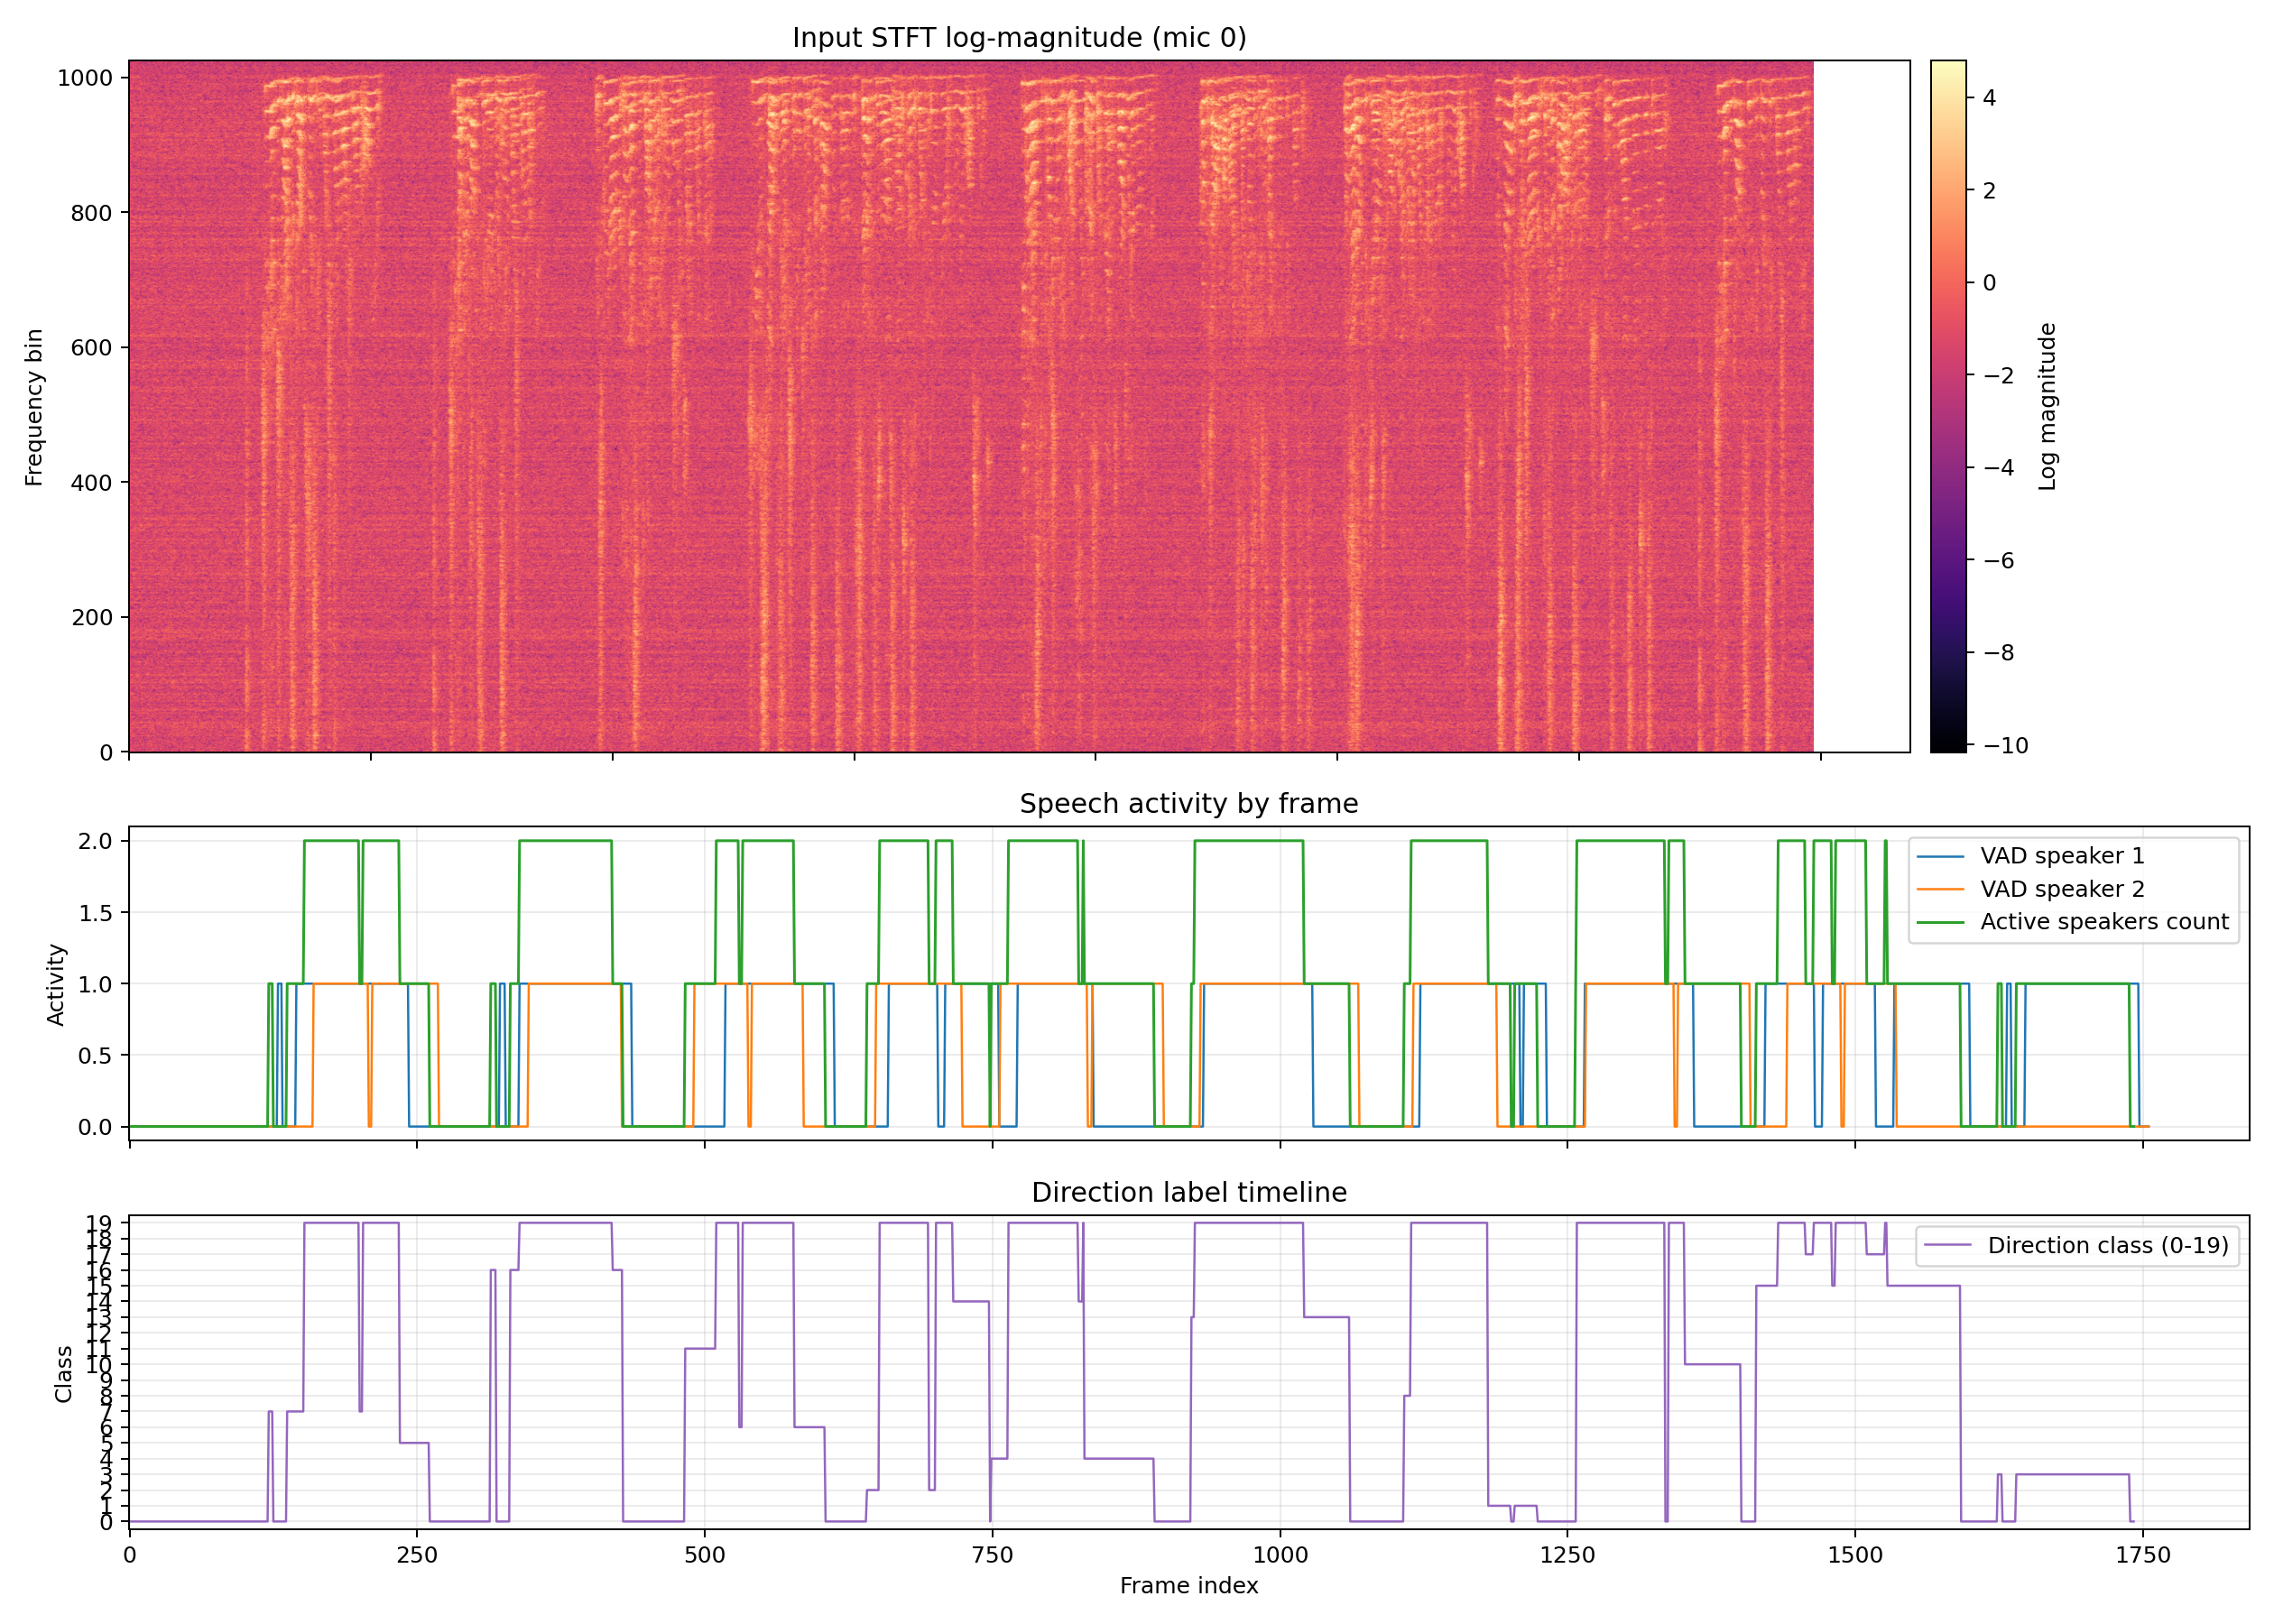
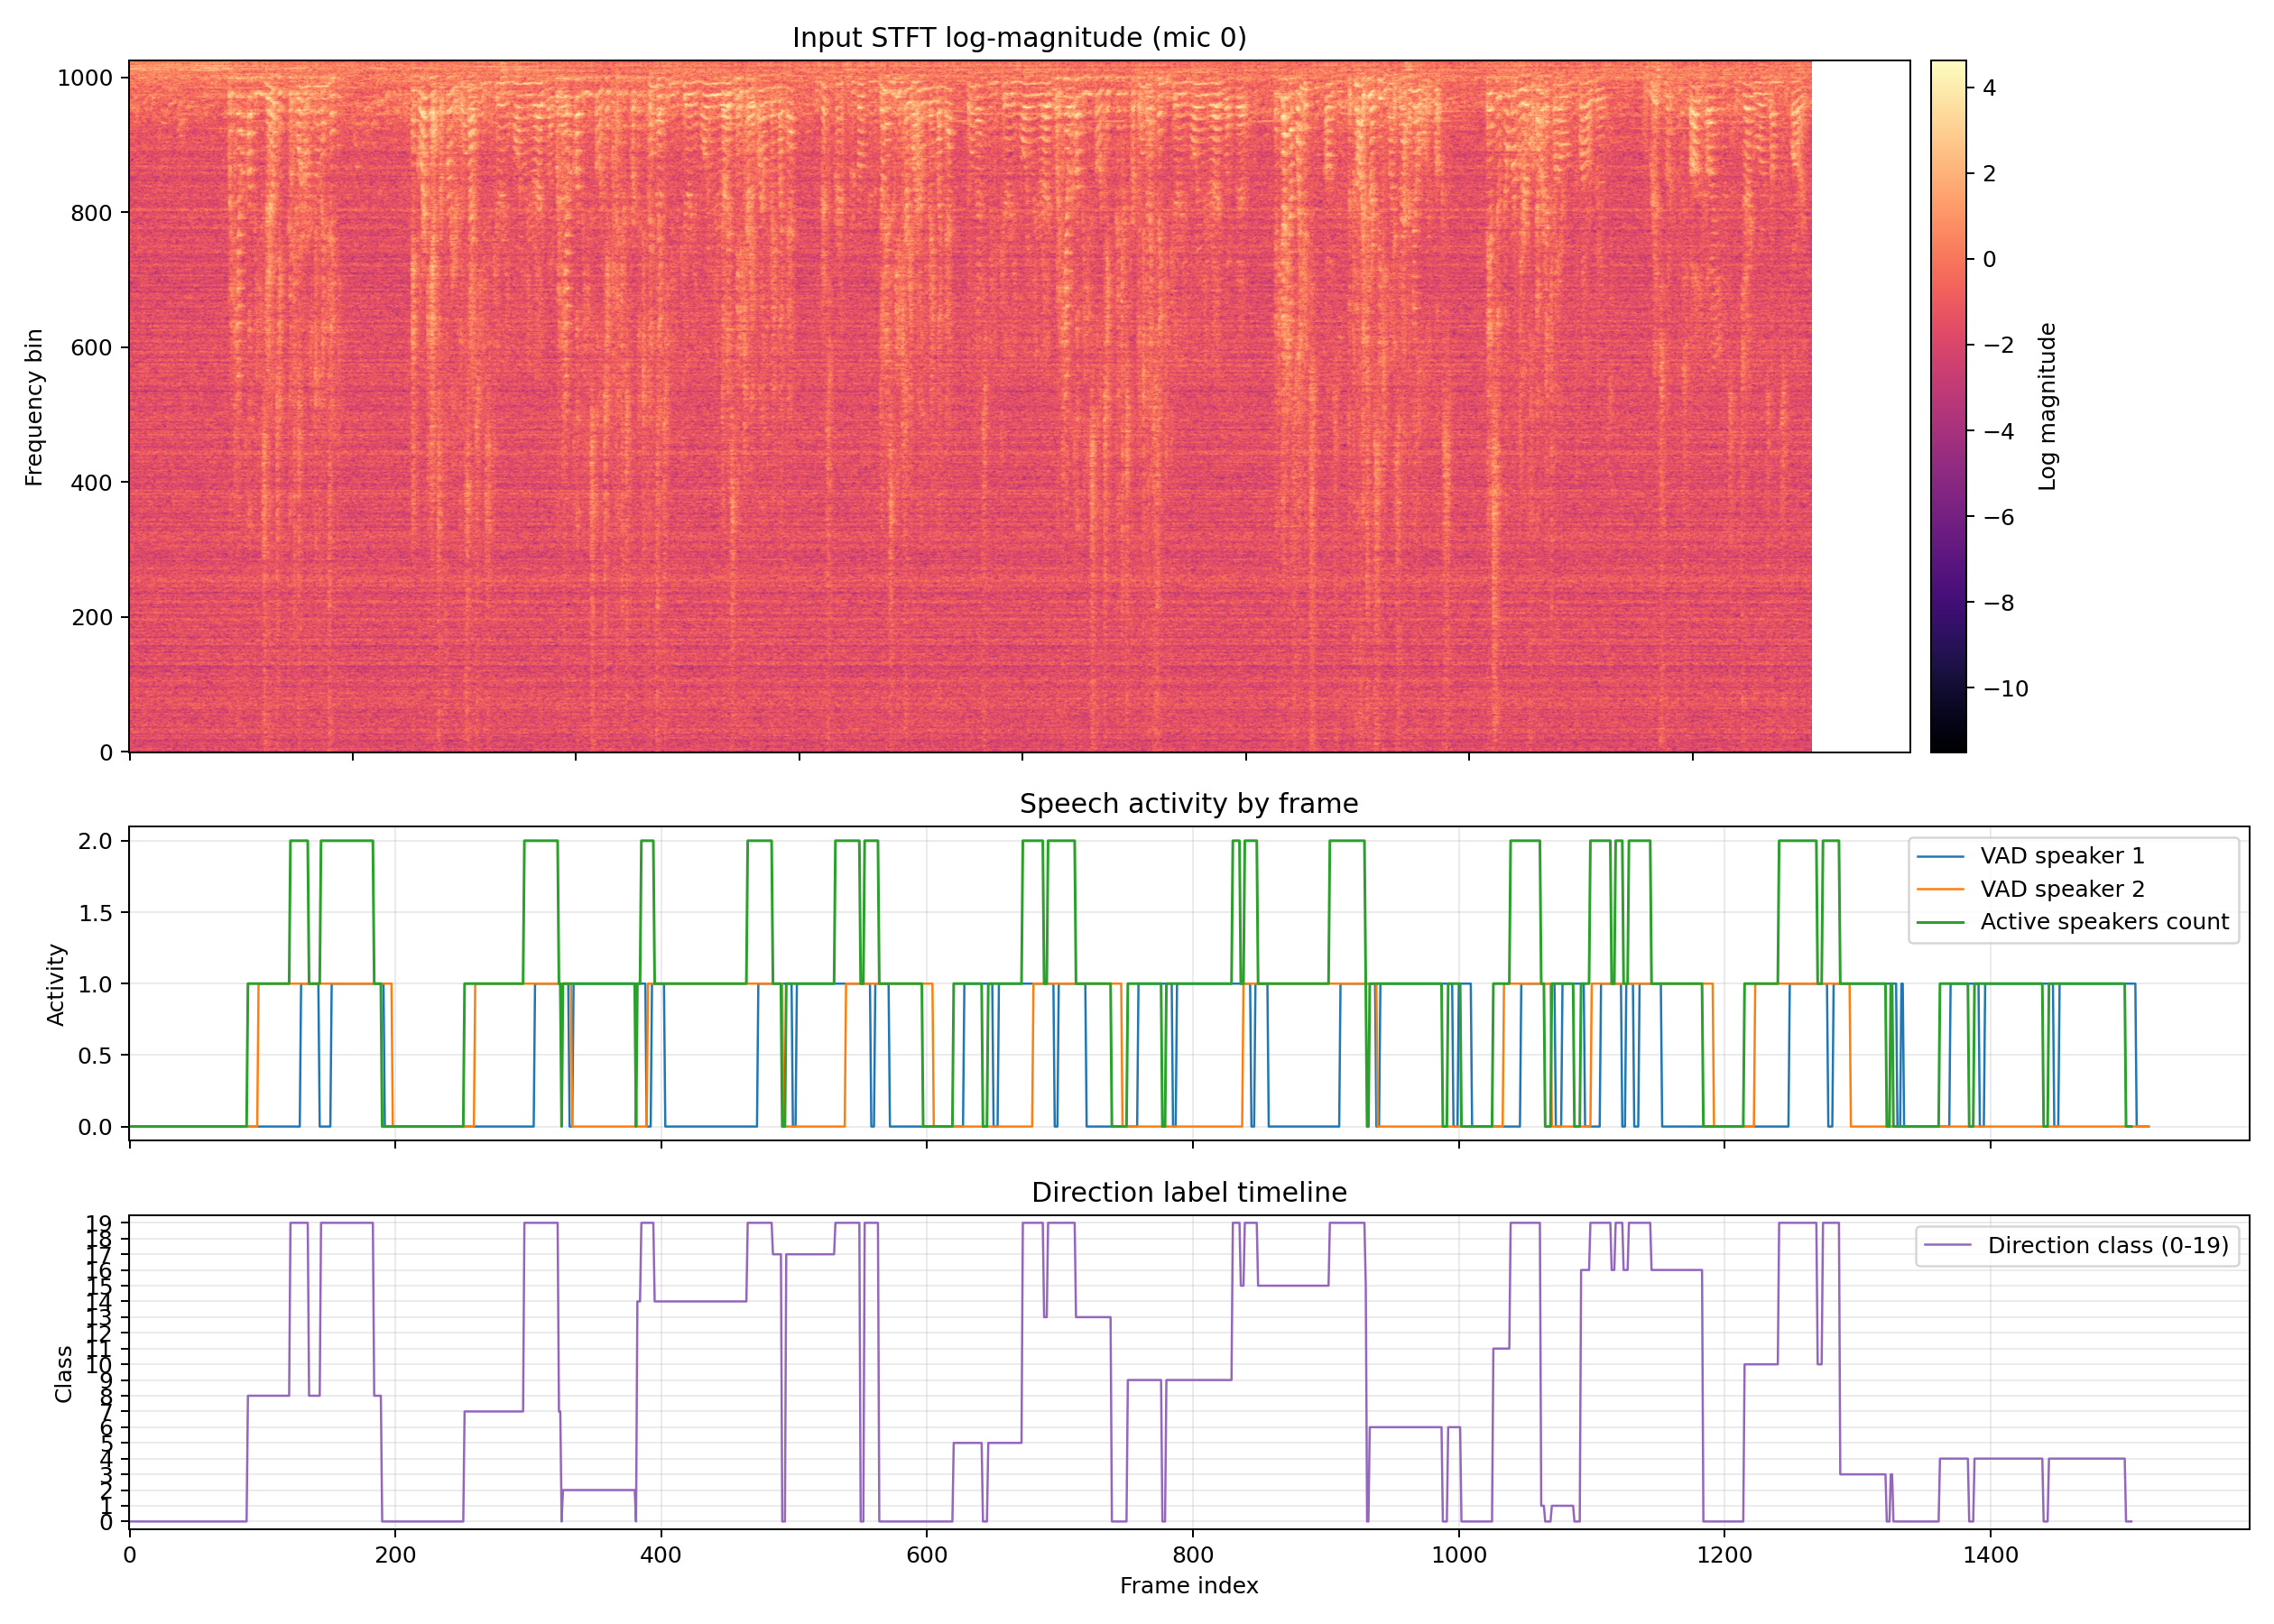
changed data_locations for input&output

diff --git a/DataSamples_to_InputVectors/create_data_base.py b/DataSamples_to_InputVectors/create_data_base.py
@@ -17,6 +17,7 @@ import multiprocessing
 import scipy.io as sio
 from sklearn.preprocessing import StandardScaler
 import os
+from time import perf_counter
 
 #root_dir = '/home/dsi/shvarta3/data_sets/'
 #data_root_dir = '/mnt/dsi_vol1/users/ayal_shvarts/project/'
@@ -24,12 +25,11 @@ mode='train'
 
 
 pydir = os.path.dirname(os.path.abspath(__file__))
-if mode == 'train':
-    output_dir = pydir + '/dataset/train/'
-elif mode == 'val':
-    output_dir = pydir + '/dataset/val/'
+workspace_dir = os.path.dirname(pydir)
+data_dir = os.path.join(workspace_dir, 'data')
 plot_dir = pydir + '/plots/'
-input_data_dir = os.path.dirname(pydir) + '/createAudio/data/'
+input_data_dir = os.path.join(data_dir, 'simulated_audio')
+output_dir = os.path.join(data_dir, 'dataset', mode)
 
 # make sure dirs exist
 os.makedirs(output_dir, exist_ok=True)
@@ -37,6 +37,10 @@ os.makedirs(plot_dir, exist_ok=True)
 
 print('Data root dir:', input_data_dir)
 print('Output root dir:', output_dir)
+
+timing_enabled = True
+if timing_enabled:
+    print('Timing diagnostics enabled: per-sample stage breakdown')
 
 plt.close("all")
 # variens
@@ -63,21 +67,14 @@ class_wieght=np.zeros(3)
 scaler = StandardScaler()
 num_diraction=18
 
-if mode =='train':
-    data_file_name=output_dir+'feature_vector_'
-    label_file_name=output_dir+'label_'
-    label2_file_name=output_dir+'label2_'
-    idx_file_name=output_dir+'idx.npy'
-    nom_data_sets=2
-    lottery=3
-             
-if mode =='val':
-    data_file_name=output_dir+'feature_vector_'
-    label_file_name=output_dir+'label_'
-    label2_file_name=output_dir+'label2_'
-    idx_file_name=output_dir+'idx.npy'
-    nom_data_sets=2
-    lottery=3
+data_file_name=output_dir+'/feature_vector_'
+label_file_name=output_dir+'/label_'
+label2_file_name=output_dir+'/label2_'
+idx_file_name=output_dir+'/idx.npy'
+nom_data_sets=2 # number of data sets to process (train1, train2, etc.) - 
+# each data set contains 'lottery' number of files (e.g., 200 files for train1, 200 files for train2, etc.)
+lottery=2 # number of files to process per data set 
+
 
 def stft_z(get_receivers):
     return stft(get_receivers, win, hop, nfft)
@@ -109,18 +106,89 @@ def create_X_total(l):
         create_X)(l,j)for j in range(NUP))            
     return np.asarray(X_temp)[:,1:M] 
 
+def add_stage_time(stage_times, stage_name, stage_start):
+    stage_times[stage_name] = stage_times.get(stage_name, 0.0) + (perf_counter() - stage_start)
+
+def print_sample_timing(index_file, stage_times, total_time):
+    accounted_time = sum(stage_times.values())
+    if total_time > accounted_time:
+        stage_times = dict(stage_times)
+        stage_times['other'] = total_time - accounted_time
+    ordered_stage_times = sorted(stage_times.items(), key=lambda item: item[1], reverse=True)
+    timing_summary = ', '.join(
+        '%s=%.3fs (%.1f%%)' % (stage_name, stage_time, 100.0 * stage_time / total_time)
+        for stage_name, stage_time in ordered_stage_times
+    )
+    print('[Timing] sample %d total=%.3fs | %s' % (index_file, total_time, timing_summary))
+
+def update_timing_history(sample_total_times, stage_time_history, sample_total_time, stage_times):
+    sample_total_times.append(sample_total_time)
+    for stage_name, stage_time in stage_times.items():
+        if stage_name not in stage_time_history:
+            stage_time_history[stage_name] = []
+        stage_time_history[stage_name].append(stage_time)
+
+def print_run_timing_summary(sample_total_times, stage_time_history):
+    if len(sample_total_times) == 0:
+        return
+
+    sample_total_times_arr = np.asarray(sample_total_times, dtype=np.float64)
+    total_runtime = float(sample_total_times_arr.sum())
+    print('[Timing summary] samples=%d total_runtime=%.3fs avg/sample=%.3fs median/sample=%.3fs max/sample=%.3fs' % (
+        len(sample_total_times),
+        total_runtime,
+        float(sample_total_times_arr.mean()),
+        float(np.median(sample_total_times_arr)),
+        float(sample_total_times_arr.max())
+    ))
+
+    stage_rows = []
+    for stage_name, stage_values in stage_time_history.items():
+        stage_values_arr = np.asarray(stage_values, dtype=np.float64)
+        stage_total = float(stage_values_arr.sum())
+        stage_rows.append((
+            stage_name,
+            stage_total,
+            float(stage_values_arr.mean()),
+            float(np.median(stage_values_arr)),
+            float(stage_values_arr.max())
+        ))
+
+    stage_rows.sort(key=lambda item: item[1], reverse=True)
+    for stage_name, stage_total, stage_avg, stage_median, stage_max in stage_rows:
+        share = 0.0 if total_runtime == 0 else 100.0 * stage_total / total_runtime
+        print('[Timing summary] %s total=%.3fs (%.1f%%) avg=%.3fs median=%.3fs max=%.3fs' % (
+            stage_name,
+            stage_total,
+            share,
+            stage_avg,
+            stage_median,
+            stage_max
+        ))
+
+all_sample_total_times = []
+all_stage_time_history = {}
+
 for k in range(1,nom_data_sets):
     print(k)
     idx_start_epoch = idx
+    X_total_parts = []
+    L_total_parts = []
+    L2_total_parts = []
     for i in range(start,lottery):
+        sample_start_time = perf_counter()
+        sample_stage_times = {}
+
         index_file=i+(lottery-1)*(k-1)
         print(i)
 
-        first_file=(input_data_dir+'%s/first_%d.wav'% (mode, index_file))
-        second_file=(input_data_dir+'%s/second_%d.wav'% (mode, index_file)) 
-        together_file=(input_data_dir+'%s/together_%d.wav'% (mode, index_file)) 
-        label_first_location_file=(input_data_dir+'%s/label_location_first_%d.npy'% (mode, index_file))
-        label_second_location_file=(input_data_dir+'%s/label_location_second_%d.npy'% (mode, index_file))
+        stage_start = perf_counter()
+
+        first_file=(input_data_dir+'/%s/first_%d.wav'% (mode, index_file))
+        second_file=(input_data_dir+'/%s/second_%d.wav'% (mode, index_file)) 
+        together_file=(input_data_dir+'/%s/together_%d.wav'% (mode, index_file)) 
+        label_first_location_file=(input_data_dir+'/%s/label_location_first_%d.npy'% (mode, index_file))
+        label_second_location_file=(input_data_dir+'/%s/label_location_second_%d.npy'% (mode, index_file))
 
 
 
@@ -140,23 +208,31 @@ for k in range(1,nom_data_sets):
 
         M=len(receiver_first[0,:])
         index=int(1+np.fix((len(receiver_first[:,1])-wlen)/hop))
+        add_stage_time(sample_stage_times, 'load_and_prepare_inputs', stage_start)
 
+        stage_start = perf_counter()
         z_k_first=[]
         z_k_first = Parallel(n_jobs=1, verbose=0)(delayed(
         stft_z)(receiver_first[:,i])for i in range(M))
         z_k_first=np.asarray(z_k_first)
+        add_stage_time(sample_stage_times, 'stft_first_signal', stage_start)
         
 
+        stage_start = perf_counter()
         z_k=[]
         z_k = Parallel(n_jobs=1, verbose=0)(delayed(
         stft_z)(receivers[:,i])for i in range(M))
         z_k=np.asarray(z_k)
+        add_stage_time(sample_stage_times, 'stft_mixed_signal', stage_start)
 
+        stage_start = perf_counter()
         cholesky_Qvv=[]
         cholesky_Qvv = Parallel(n_jobs=num_cores, verbose=0)(delayed(
         create_cholesky_Qvv)(z_k[:,i,0:pad])for i in range(0,NUP))
         cholesky_Qvv=np.asarray(cholesky_Qvv) 
+        add_stage_time(sample_stage_times, 'noise_covariance_cholesky', stage_start)
 
+        stage_start = perf_counter()
         X_temp_total=[]
         X_temp_total = Parallel(n_jobs=num_cores, verbose=0)(delayed(
         create_X_total)(l)for l in range(frame_before,index-frame_after))
@@ -174,6 +250,7 @@ for k in range(1,nom_data_sets):
         
 
         X_T=np.concatenate((X_T,z_k_0_standart),axis=2)
+        add_stage_time(sample_stage_times, 'feature_extraction_and_scaling', stage_start)
         
         vad1_temp=abs(z_k_first)
         vad1_temp = vad1_temp/(vad1_temp.std())
@@ -185,11 +262,14 @@ for k in range(1,nom_data_sets):
         vad1_temp_sum1 = vad1_temp_sum > threshold
         vad1=vad1_temp_sum1.astype(np.int32)
 
+        stage_start = perf_counter()
         z_k_second=[]
         z_k_second = Parallel(n_jobs=1, verbose=0)(delayed(
         stft_z)(receiver_second[:,i])for i in range(M))
         z_k_second=np.asarray(z_k_second)  
+        add_stage_time(sample_stage_times, 'stft_second_signal', stage_start)
         
+        stage_start = perf_counter()
         vad2_temp=abs(z_k_second)
         vad2_temp = vad2_temp/(vad2_temp.std())
         vad2_temp = vad2_temp.mean(0)
@@ -227,17 +307,19 @@ for k in range(1,nom_data_sets):
         L2 = np.squeeze(vad1_location_update+vad2_location_update)   
         L2= L2[frame_before:index-frame_after]
         L2=np.where(L!=2, L2,19)
+        add_stage_time(sample_stage_times, 'vad_and_label_update', stage_start)
         
+        stage_start = perf_counter()
         if (mode=='train') | (mode == 'val'):
-        
-            if i==start:
-                X_total=X_T
-                L_total=L
-                L2_total=L2
-            else :
-                X_total=np.concatenate((X_total,X_T))
-                L_total=np.concatenate((L_total,L))
-                L2_total=np.concatenate((L2_total,L2))
+            X_total_parts.append(X_T)
+            L_total_parts.append(L)
+            L2_total_parts.append(L2)
+        add_stage_time(sample_stage_times, 'dataset_aggregation', stage_start)
+
+        if timing_enabled:
+            sample_total_time = perf_counter() - sample_start_time
+            update_timing_history(all_sample_total_times, all_stage_time_history, sample_total_time, sample_stage_times)
+            print_sample_timing(index_file, sample_stage_times, sample_total_time)
         
     if (mode=='test') :
         X_total=X_T
@@ -246,6 +328,18 @@ for k in range(1,nom_data_sets):
         
         
     if (mode=='train') | (mode=='val'):
+        if len(X_total_parts) == 0:
+            raise RuntimeError('No train/val samples were accumulated for this run.')
+
+        # Concatenate once after all files to avoid repeated full copies.
+        X_total=np.concatenate(X_total_parts, axis=0)
+        L_total=np.concatenate(L_total_parts, axis=0)
+        L2_total=np.concatenate(L2_total_parts, axis=0)
+        print('[Data] chunk %d aggregated %d files into %d vectors before balancing' % (
+            k,
+            len(X_total_parts),
+            X_total.shape[0]
+        ))
         
         x_0=X_total[np.where(L2_total==0)]
         x_1=X_total[np.where(L2_total==1)]
@@ -394,6 +488,9 @@ for k in range(1,nom_data_sets):
         idx=idx+1
         
 np.save(idx_file_name,idx)
+
+if timing_enabled:
+    print_run_timing_summary(all_sample_total_times, all_stage_time_history)
 
 # -------------------------
 # Diagnostic plotting block